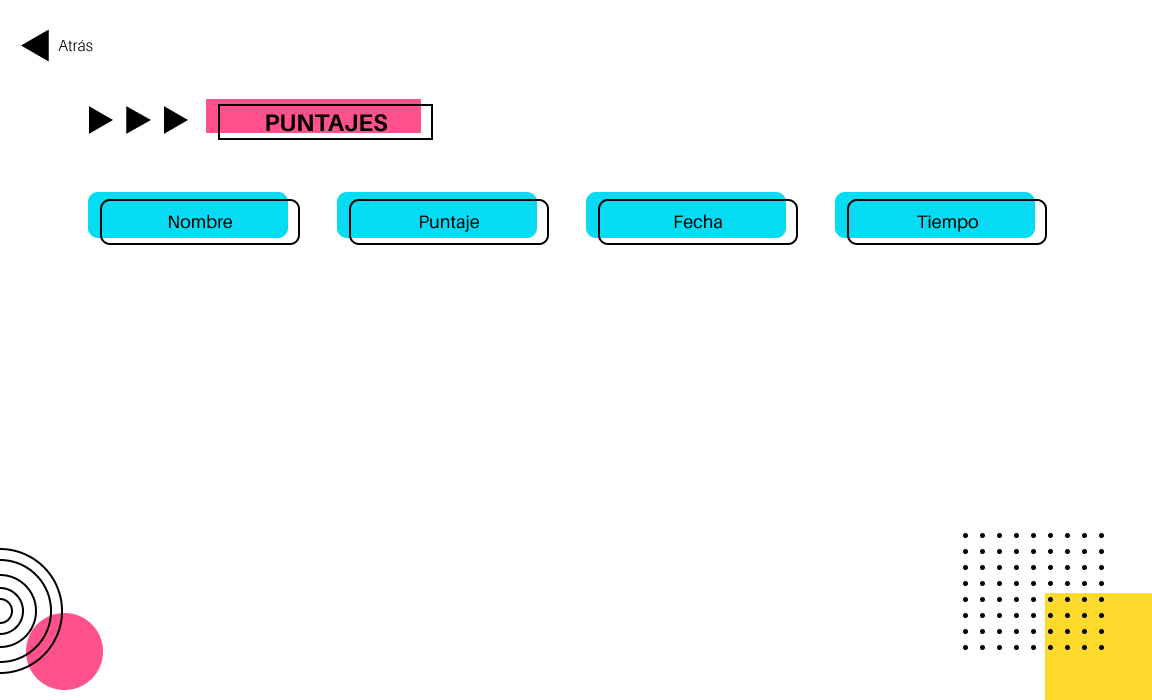
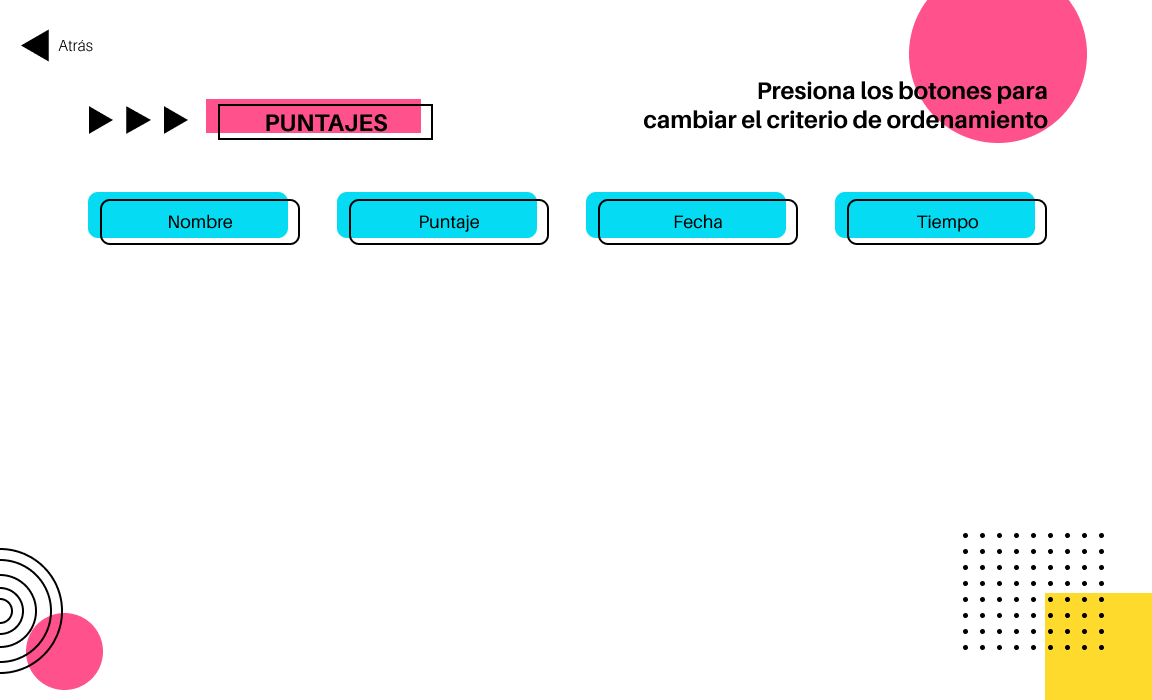
Ordenamiento natural y parcial

Changed region(s): [[0.5625, 0.0, 0.9688, 0.21]]

diff --git a/src/model/Logic.java b/src/model/Logic.java
@@ -1,6 +1,7 @@
 package model;
 
 import java.util.ArrayList;
+import java.util.Collections;
 import java.util.Date;
 import java.util.LinkedList;
 
@@ -23,8 +24,8 @@ public class Logic {
 	private PApplet app;
 	private LinkedList<Player> playerList;
 	private ArrayList<Enemy> enemyList;
+	private LinkedList<Game> gamesList;
 	private ByName sortByName;
-	private ByScore sortByScore;
 	private ByDate sortByDate;
 	private ByTime sortByTime;
 	private MainCharacter Lucas;
@@ -44,6 +45,7 @@ public class Logic {
 	public Logic(PApplet app) {
 		this.app = app;
 		playerList = new LinkedList<Player>();
+		gamesList = new LinkedList<Game>();
 		Lucas = new MainCharacter(app.width,app.height,app);
 		name = new NameScreen(app);
 		home = new HomeScreen(app);
@@ -55,7 +57,7 @@ public class Logic {
 		victory = new VictoryScreen(app);
 		defeat = new DefeatScreen(app);
 		name.textFields();
-		screen = 5;
+		screen = 8;
 		date = new Date();	
 	}
 	public void changeScreen() {
@@ -172,7 +174,7 @@ public class Logic {
 		case 5:
 			//De Resumen a Home
 			if((641<app.mouseX&&app.mouseX<1068)&&(301<app.mouseY&&app.mouseY<372)) {
-				screen=1;
+				screen=5;
 				}
 			//De Resumen a Game1
 			if((641<app.mouseX&&app.mouseX<1068)&&(428<app.mouseY&&app.mouseY<495)) {
@@ -205,10 +207,31 @@ public class Logic {
 			if((22<app.mouseX&&app.mouseX<96)&&(29<app.mouseY&&app.mouseY<62)) {
 				screen=1;
 				}
+			//Ordenar por nombre
+			if((101<app.mouseX&&app.mouseX<299)&&(199<app.mouseY&&app.mouseY<243)) {
+			Collections.sort(gamesList,sortByName);
+			System.out.println("ordenar por nombre");
+			}
+			//Ordenar por puntaje (ORDENAMIENTO NATURAL)
+			if((349<app.mouseX&&app.mouseX<547)&&(199<app.mouseY&&app.mouseY<243)) {
+				
+				Collections.sort(gamesList);
+				System.out.println("ordenar por puntaje");
+				}
+			//Ordenar por fecha
+			if((597<app.mouseX&&app.mouseX<796)&&(199<app.mouseY&&app.mouseY<243)) {
+				Collections.sort(gamesList,sortByDate);
+				System.out.println("ordenar por fecha");
+				}
+			//Ordenar por tiempo
+			if((847<app.mouseX&&app.mouseX<1045)&&(199<app.mouseY&&app.mouseY<243)) {
+				Collections.sort(gamesList,sortByTime);
+				System.out.println("ordenar por tiempo");
+				}
 			break;
 			}
 	}
 	public void registerPlayer() {
-		playerList.add(new Player(name.getName(),date,app));
+		playerList.add(new Player(name.getName(),app));
 	}
 }

diff --git a/src/model/Game.java b/src/model/Game.java
@@ -1,0 +1,41 @@
+package model;
+
+import java.util.Date;
+
+import processing.core.PApplet;
+
+public class Game implements Comparable<Game> {
+	private String playName;
+	private int score;
+	private int time;
+	private Date date;
+	PApplet app;
+	public Game(String playName, int score, int time, Date date, PApplet app) {
+		this.playName = playName;
+		this.score = score;
+		this.time = time;
+		this.date = date;
+		this.app = app;
+	}
+	@Override
+	public int compareTo(Game nextGame) {
+
+		return this.score - nextGame.getScore();
+	}
+	public String getPlayName() {
+		return playName;
+	}
+	public int getScore() {
+		return score;
+	}
+	public int getTime() {
+		return time;
+	}
+	public Date getDate() {
+		return date;
+	}
+	public PApplet getApp() {
+		return app;
+	}
+
+}

diff --git a/src/model/Player.java b/src/model/Player.java
@@ -8,15 +8,9 @@ import processing.core.PImage;
 
 public class Player {
 	private String name;
-	private int score;
-	private int time;
-	private Date date;
-	
 	PApplet app;
-	public Player(String name, Date date, PApplet app) {
+	public Player(String name, PApplet app) {
 		this.name = name;
-		this.date = date;
-	
 		this.app = app;
 	
 	}

diff --git a/src/model/ByName.java b/src/model/ByName.java
@@ -1,5 +1,11 @@
 package model;
+import java.util.Comparator;
+public class ByName implements Comparator<Game> {
 
-public class ByName {
+	@Override
+	public int compare(Game g1, Game g2) {
+		// TODO Auto-generated method stub
+		return g1.getPlayName().compareTo(g2.getPlayName());
+	}
 
 }

diff --git a/src/model/ByDate.java b/src/model/ByDate.java
@@ -1,5 +1,12 @@
 package model;
+import java.util.Comparator;
 
-public class ByDate {
+public class ByDate implements Comparator<Game> {
+
+	@Override
+	public int compare(Game g1, Game g2) {
+		// TODO Auto-generated method stub
+		return g1.getDate().compareTo(g2.getDate());
+	}
 
 }

diff --git a/src/model/ByTime.java b/src/model/ByTime.java
@@ -1,5 +1,13 @@
 package model;
+import java.util.Comparator;
 
-public class ByTime {
+
+public class ByTime implements Comparator<Game> {
+
+	@Override
+	public int compare(Game g1, Game g2) {
+		// TODO Auto-generated method stub
+		return g1.getTime() - g2.getTime();
+	}
 
 }
